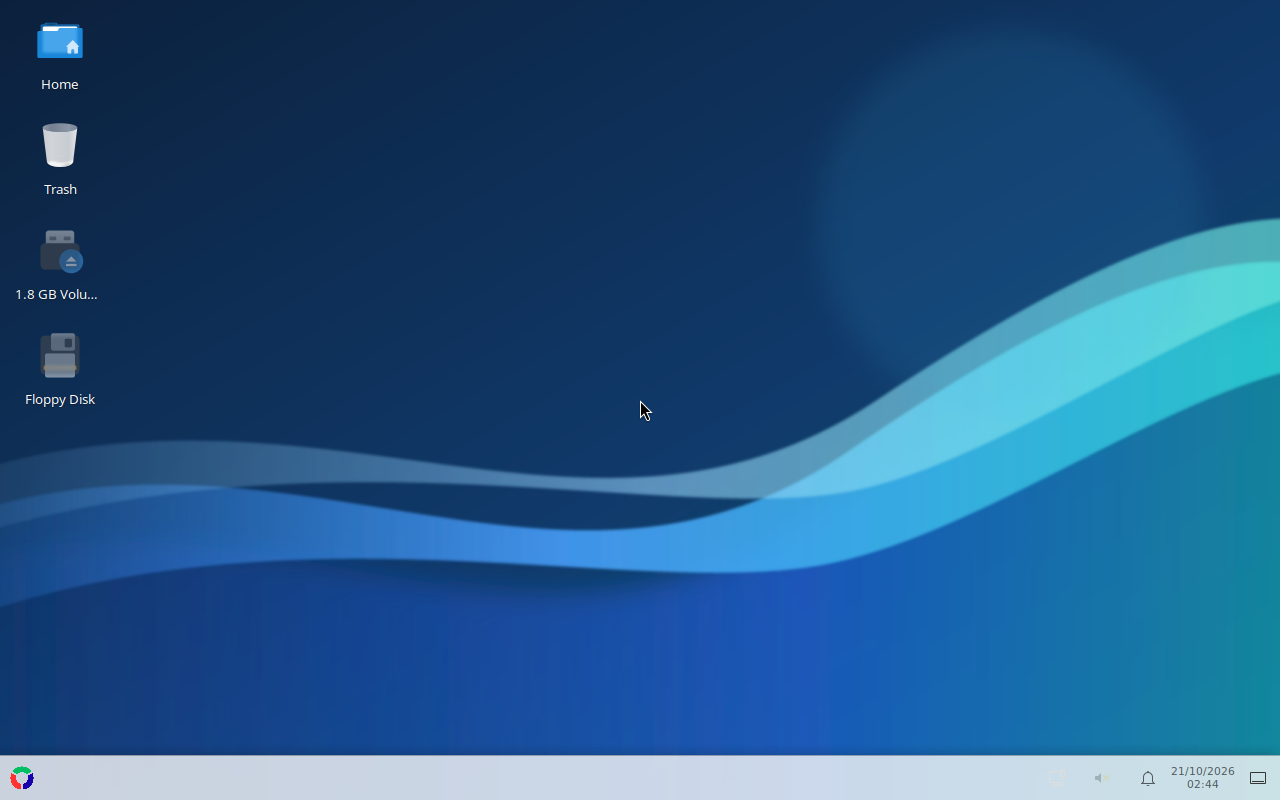
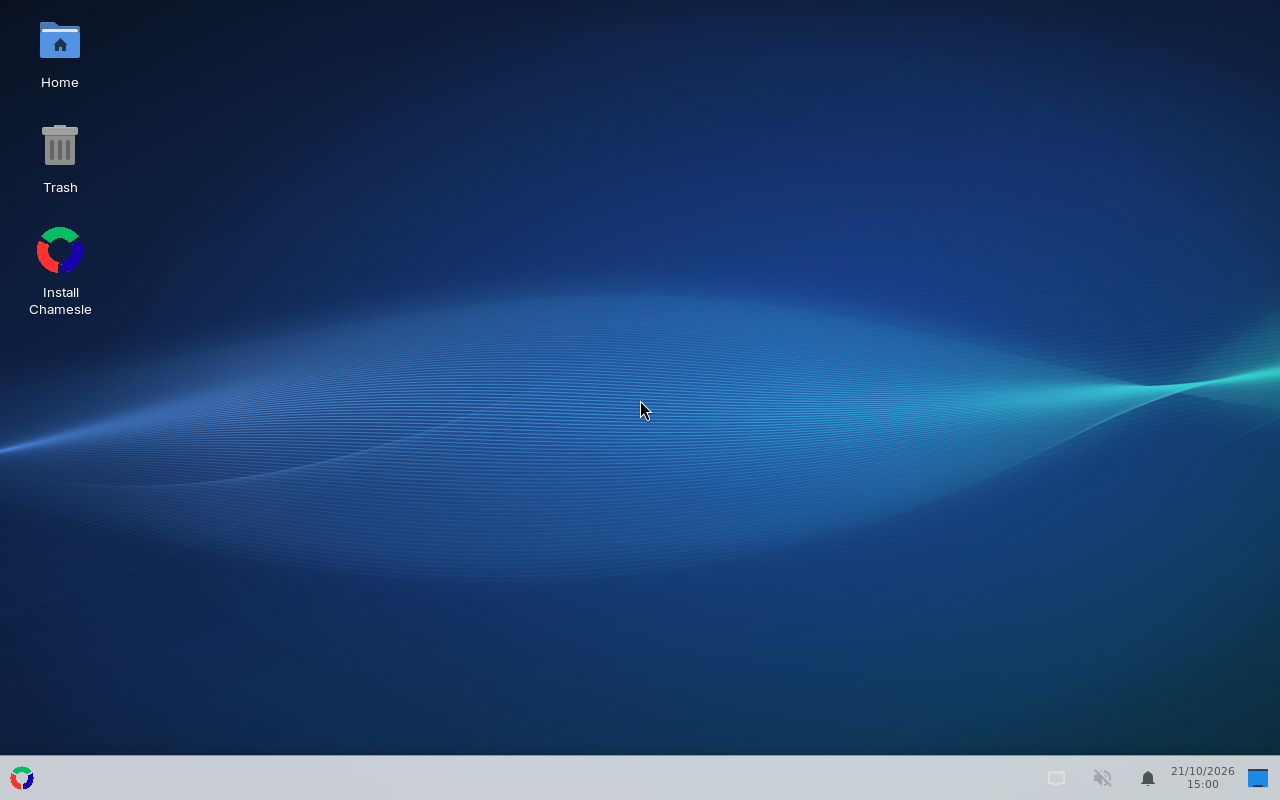
website: new look screenshot, stable rolling

diff --git a/docs/about.html b/docs/about.html
@@ -38,7 +38,13 @@ know, has the drivers and apps already sorted, and stays out of the way.</p>
   <tr><td><b>0.4</b></td><td>MATE and Cinnamon editions.</td></tr>
   <tr><td><b>0.5</b></td><td>GNOME and KDE Plasma editions.</td></tr>
 </table>
-<p class="small">No dates. It's ready when it's ready.</p>
+<p class="small">No dates for these. Once 1.0 is out, there's a new ISO every 6 months, and the version
+names follow Elden Ring's bosses: Margit until 1.0, then Godrick, Rennala and Radahn.</p>
+
+<h2>Stable rolling</h2>
+<p>Chamesle updates every week, like a rolling distro, but slowly on purpose: a new version waits a while
+before it goes out, and every week's updates have to install and boot in a test machine first. The kernel
+stays on the long-term support line.</p>
 
 <h2>How it's built</h2>
 <p>Each ISO is made by one script, <code>build.sh</code>, from a list of packages per edition. The init system is dinit,

diff --git a/docs/new.html b/docs/new.html
@@ -54,9 +54,15 @@ Chamesle key. Updating everything is one command:</p>
 <pre><code>sudo apk upgrade</code></pre>
 <p> <a href="packages.html">Search the packages</a>.</p>
 
+<h2>Stable rolling</h2>
+<p>From 0.2 Chamesle is a rolling release that's careful about it: updates every week, new versions held back
+for a while before they go out, and a test install that has to boot before anything ships. The kernel is
+pinned to the long-term support line (6.18 now). New ISOs come every 6 months.</p>
+
 <h2>Smaller things</h2>
 <ul>
-  <li>A sharper wallpaper, 4K now.</li>
+  <li>A new 4K wallpaper, the Inter font and Papirus icons.</li>
+  <li>The login screen is Mint's, with the Chamesle logo.</li>
   <li>Qt apps use the same theme as everything else.</li>
   <li>fastfetch shows the Chamesle logo.</li>
   <li>The boot menu of an installed system finds Windows and other systems on its own.</li>

diff --git a/docs/index.html b/docs/index.html
@@ -46,6 +46,10 @@
   Wi-Fi, and the firmware and drivers most laptops need. 0.2 adds an installer; an app store and a driver manager come after that.</p>
   <p>Under the hood it uses <b>dinit</b> to start things, so it boots fast and doesn't get in your way.
   There's no telemetry. There's no account to sign into.</p>
+  <p><b>Stable rolling.</b> Updates come every week, so your apps are always recent, but nothing new goes out
+  until it has been around for a while and a test install still boots. The kernel stays on the long-term
+  support line. Learned Linux on Mint? Chamesle is where you learn what rolling feels like, without the
+  surprises.</p>
 </section>
 
 <section>

diff --git a/docs/docs.html b/docs/docs.html
@@ -73,7 +73,8 @@ Got a <code>.deb</code> or <code>.rpm</code>? From 0.2 you can double-click it.<
 <pre><code>flatpak update</code></pre>
 <p>The system, from 0.2:</p>
 <pre><code>sudo apk upgrade</code></pre>
-<p>On 0.1 it's <code>sudo xbps-install -Su</code>. An update notifier is coming in 0.3 so you don't have to remember.</p>
+<p>Updates come out every week. On 0.1 it's <code>sudo xbps-install -Su</code>. An update notifier is coming in 0.3
+so you don't have to remember.</p>
 
 <h2 id="services">Services</h2>
 <p>Chamesle uses dinit instead of systemd. Services are small text files in <code>/etc/dinit.d/</code>.
